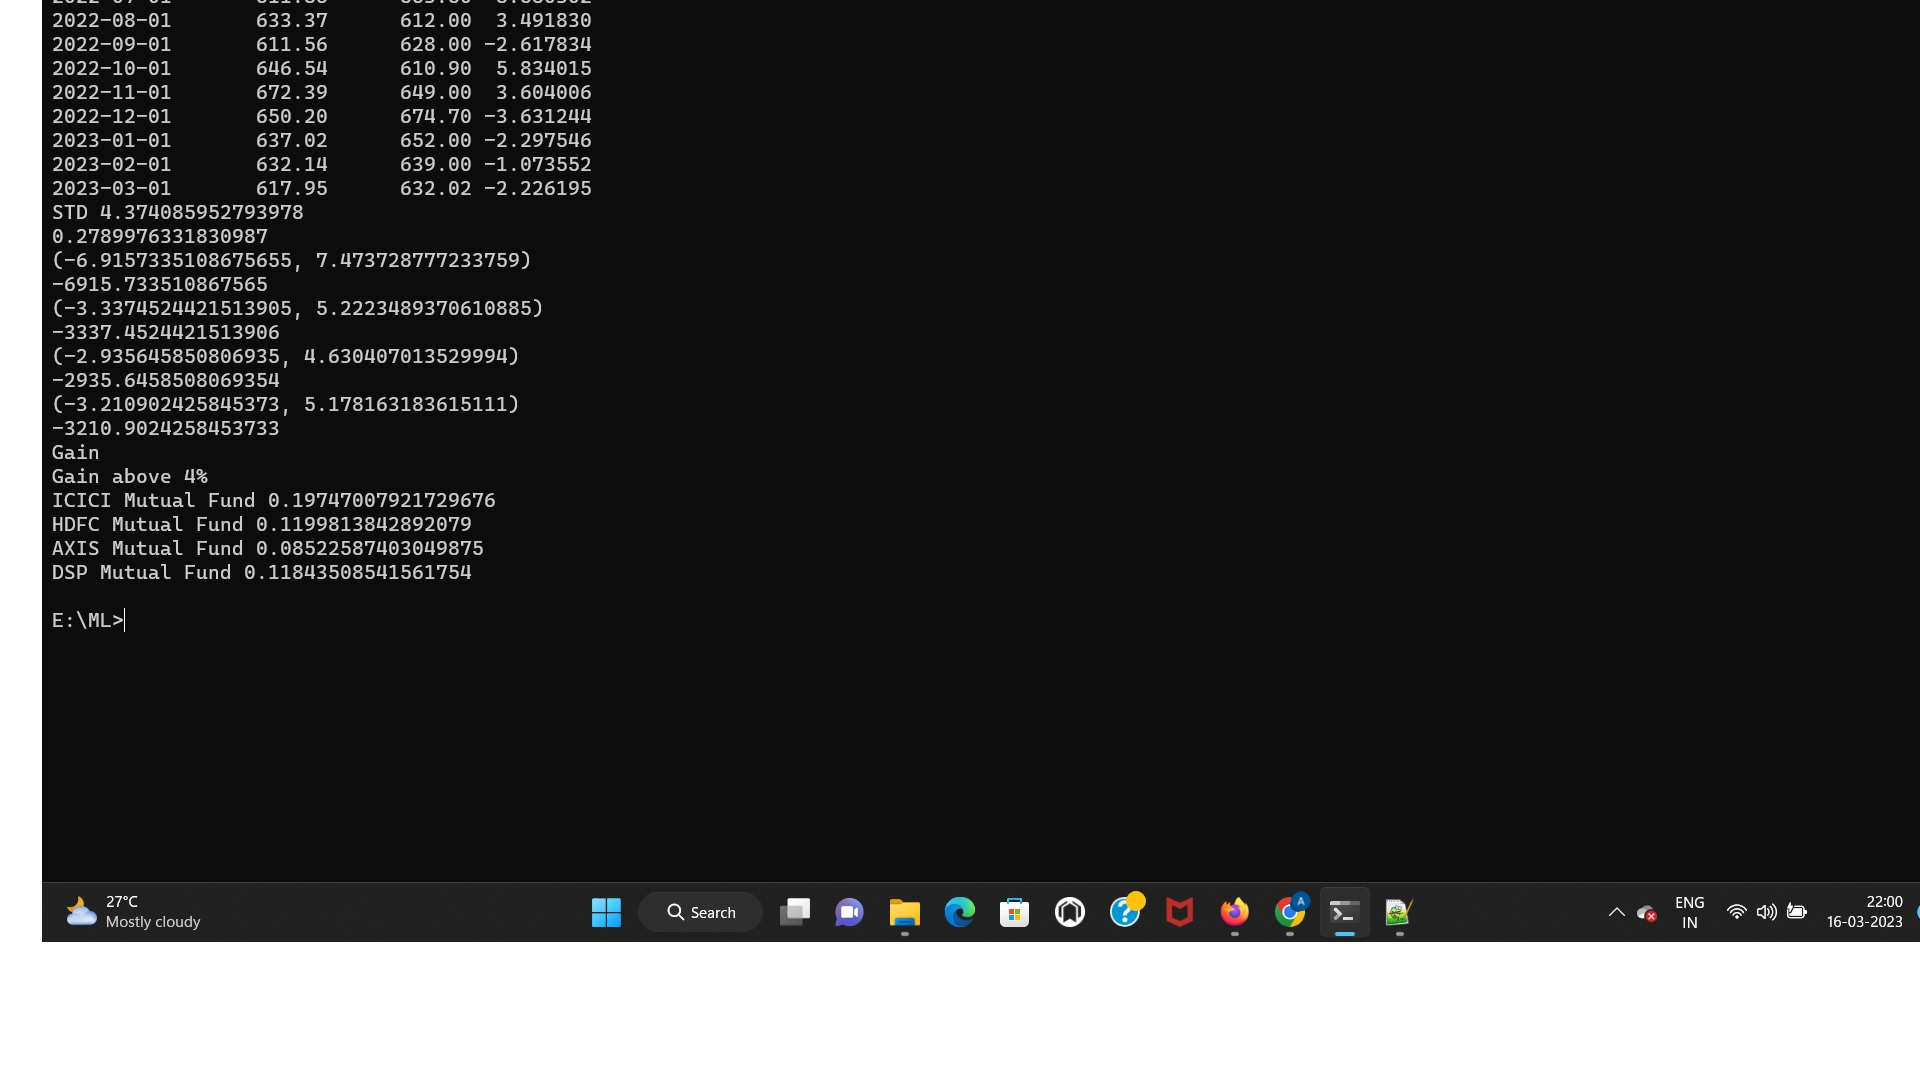
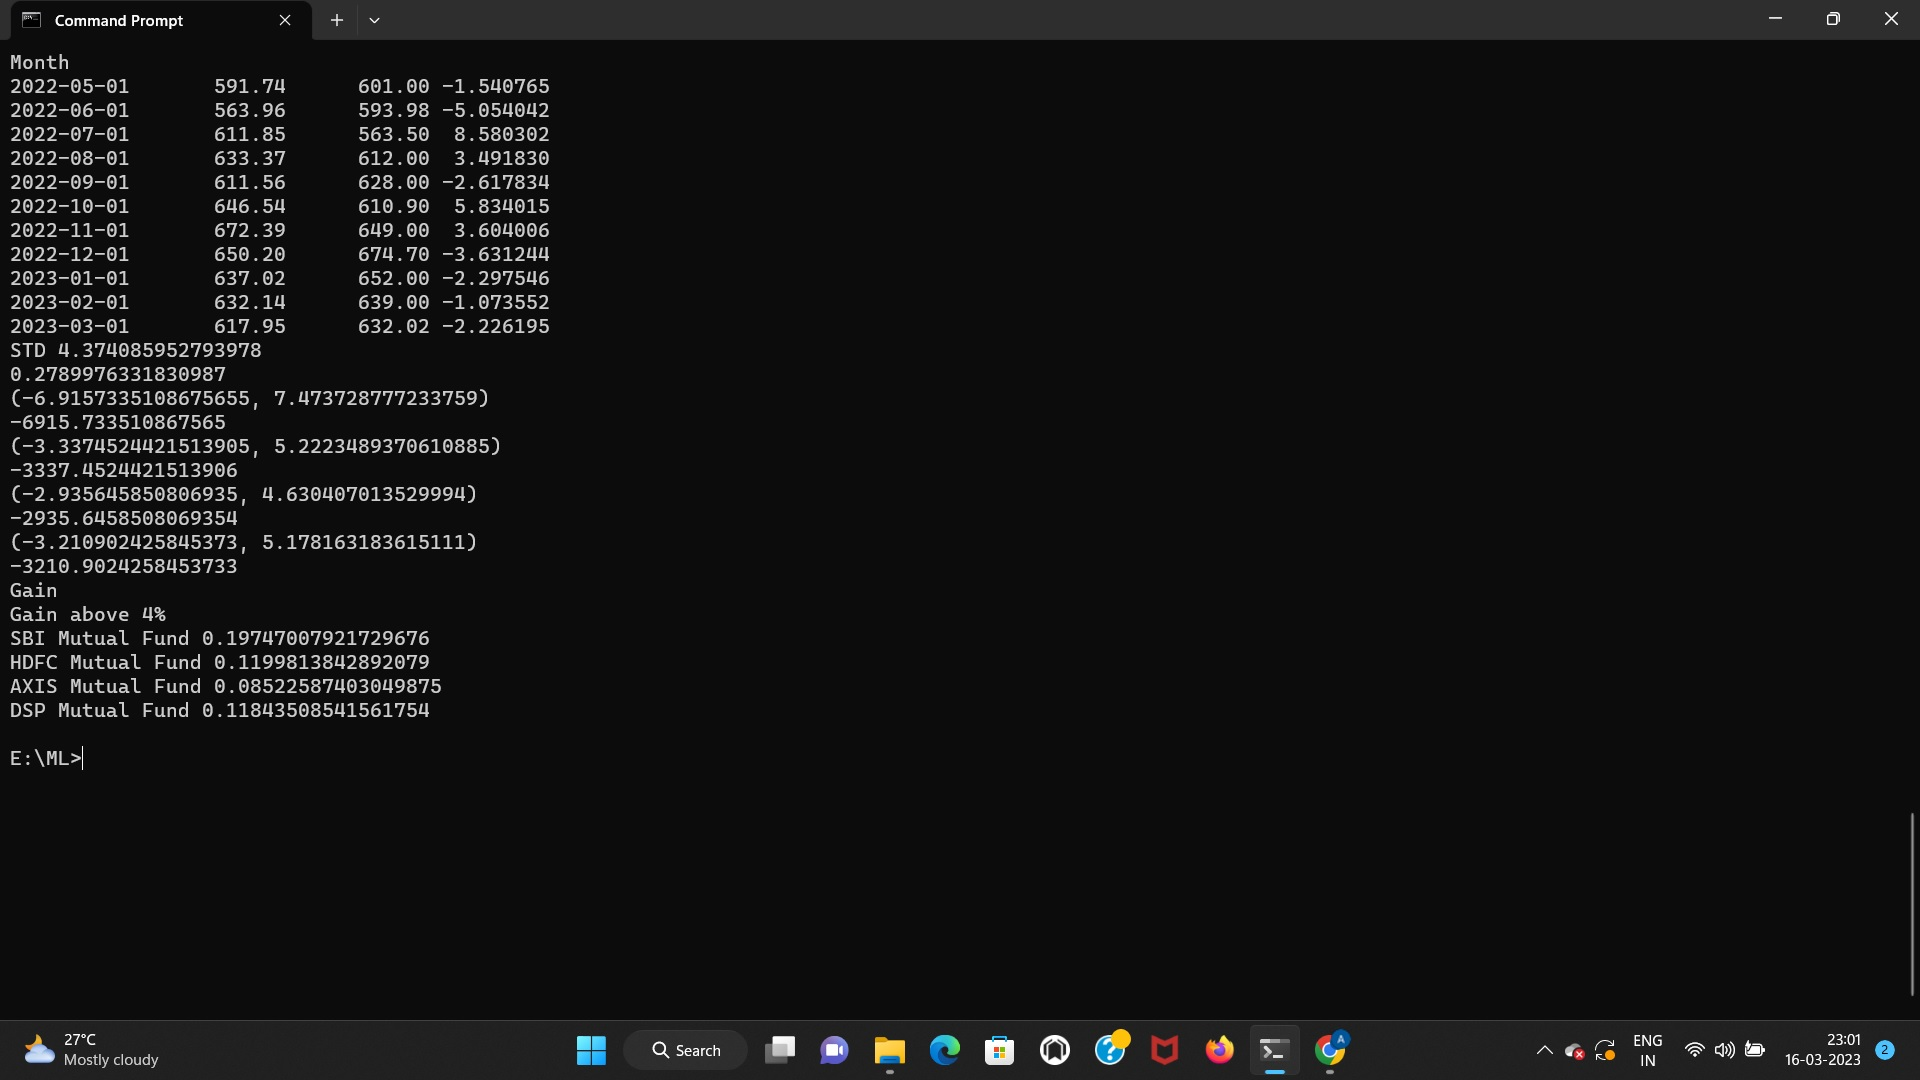
Add files via upload

Changed region(s): [[0.0, 0.0, 1.0, 1.0]]

diff --git a/ml_tut1.py b/ml_tut1.py
@@ -54,8 +54,8 @@ print(sbi_df)
 # plt.hist(hdfc_df['Gain'],bins=range(-4,4,1))
 # plt.show()
 
-sns.kdeplot(sbi_df['Gain'],label='sbi')
-sns.kdeplot(hdfc_df['Gain'],label='hdfc')
+sns.kdeplot(sbi_df['Gain'],label='SBI')
+sns.kdeplot(hdfc_df['Gain'],label='HDFC')
 sns.kdeplot(dsp_df['Gain'],label='DSP')
 sns.kdeplot(axis_df['Gain'],label='AXIS')
 plt.legend()
@@ -107,7 +107,7 @@ hdfc_cdf1=1-stats.norm.cdf(4.0,loc=hdfc_df.Gain.mean(),scale=hdfc_df.Gain.std())
 axis_cdf1=1-stats.norm.cdf(4.0,loc=axis_df.Gain.mean(),scale=axis_df.Gain.std())
 dsp_cdf1=1-stats.norm.cdf(4.0,loc=dsp_df.Gain.mean(),scale=dsp_df.Gain.std())
 print("Gain above 4%")
-print("ICICI Mutual Fund",ic_cdf1)
+print("SBI Mutual Fund",ic_cdf1)
 print("HDFC Mutual Fund",hdfc_cdf1)
 print("AXIS Mutual Fund",axis_cdf1)
 print("DSP Mutual Fund",dsp_cdf1)
